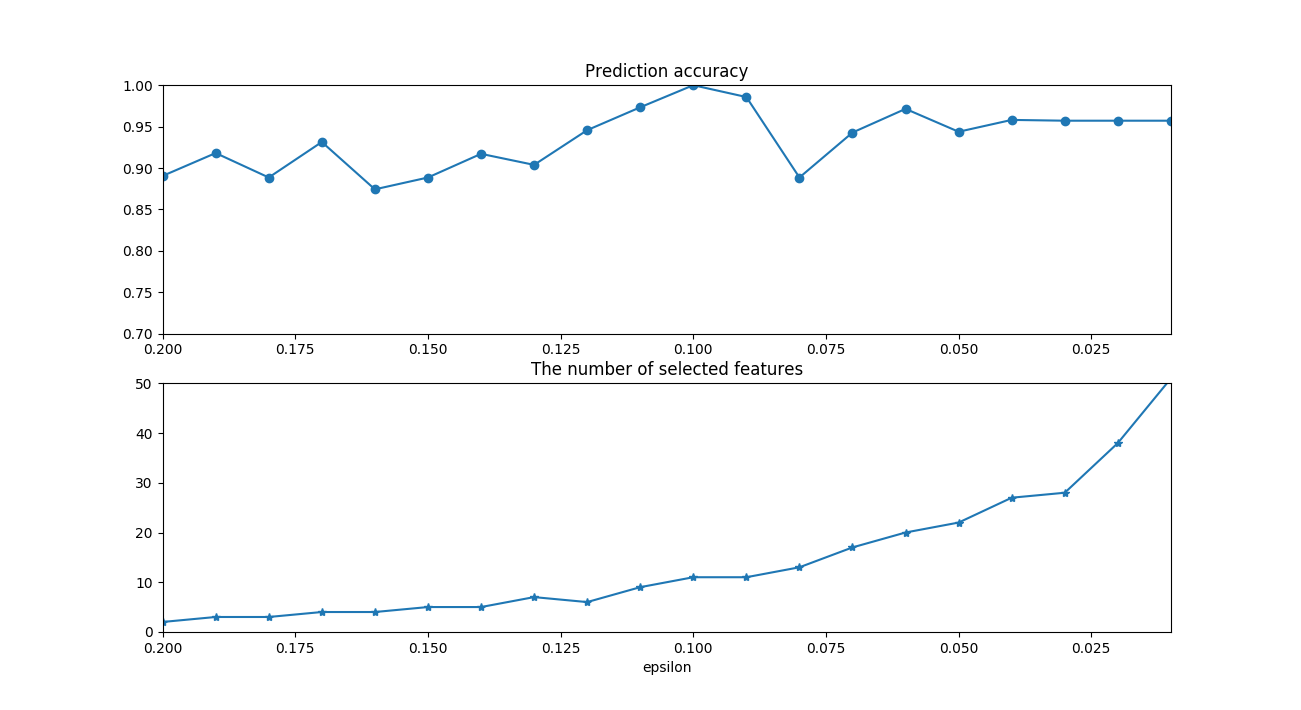
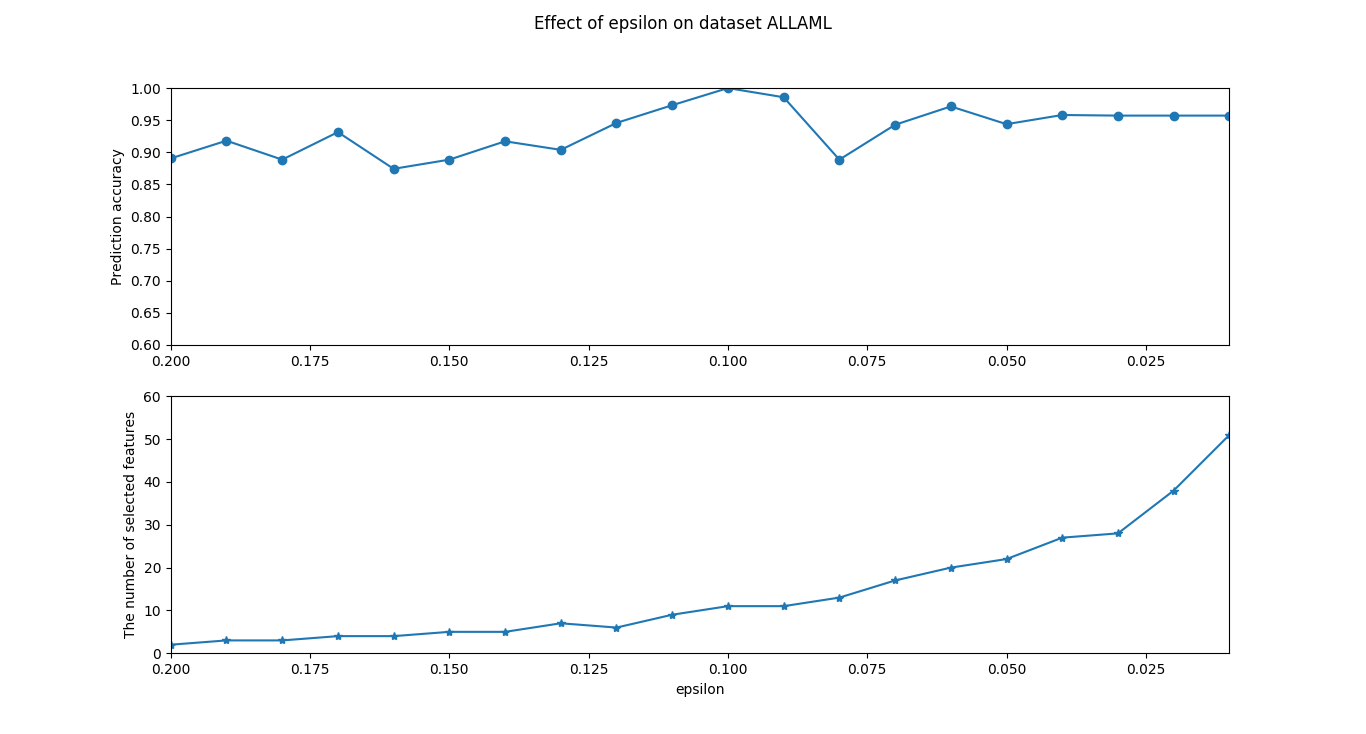
update effect of epsilon on ALLAML, colon and Prostate_GE

diff --git a/datas/gene/all_result/draw_epsilon.py b/datas/gene/all_result/draw_epsilon.py
@@ -14,14 +14,19 @@ def read_output_epsilon(fname):
                 res_cls[epsilon] = float(line_list[-1])
             if line_list[0] == 'size' and line_list[2] == 'data':
                 res_nfs[epsilon] = int(line_list[-1][:-1])
+    res_cls.name = 'accuracy'
+    res_nfs.name = 'number'
     return res_cls.drop(0.0), res_nfs.drop(0.0)
     
 
-def draw(cls, nfs):
+def draw(cls, nfs, fname):
     fig, axes = plt.subplots(2, 1)
-    cls.plot(ax=axes[0], style='o-', ylim=(0.7, 1.0), title='Prediction accuracy')
-    nfs.plot(ax=axes[1], style='*-', ylim=(0, 50), title='The number of selected features')
-    plt.xlabel('epsilon')
+    cls.plot(ax=axes[0], style='o-', ylim=(0.6, 1.0))
+    nfs.plot(ax=axes[1], style='*-', ylim=(0, 60))
+    axes[0].set_ylabel('Prediction accuracy')
+    axes[1].set_ylabel('The number of selected features')
+    axes[1].set_xlabel('epsilon')
+    fig.suptitle('Effect of epsilon on dataset %s'%fname)
     plt.show()
     plt.close()
 
@@ -30,7 +35,12 @@ if __name__ == '__main__':
     import sys
     fname = sys.argv[1]
     cls, nfs = read_output_epsilon(fname)
-    output_fname = "opt_epsilon_on_%s"%fname.split('.')[0][:-4]
-    cls.to_csv("%s_cls.csv"%output_fname)
-    nfs.to_csv("%s_nfs.csv"%output_fname)
-    draw(cls, nfs)
+    fname = fname.split('.')[0][:-4]
+    draw(cls, nfs, fname)
+    output_fname = "opt_epsilon_on_%s"%fname
+    res = pd.concat((cls, nfs), axis=1)
+    res.index.name = 'epsilon'
+    res.to_csv("%s.csv"%output_fname)
+    #cls.to_csv("%s_cls.csv"%output_fname)
+    #nfs.to_csv("%s_nfs.csv"%output_fname)
+    print cls, nfs

diff --git a/datas/gene/all_result/draw.py b/datas/gene/all_result/draw.py
@@ -14,8 +14,12 @@ nfs = nfs.drop('dataset', axis=1)
 fig, axes = plt.subplots(2, 1)
 
 style='o- ^- x- *- .-'.split(' ')
-cls.plot(ax=axes[0], style=style, ylim=(0.4, 1.0), title='Prediction accuracy')
-nfs.plot(ax=axes[1], style=style, ylim=(0, 60), title='The number of selected features')
+cls.plot(ax=axes[0], style=style, ylim=(0.4, 1.0))
+nfs.plot(ax=axes[1], style=style, ylim=(0, 60))
+
+axes[0].set_ylabel('Prediction accuracy')
+axes[1].set_ylabel('The number of selected features')
+fig.suptitle('Result on 12 datasets')
 
 plt.xlabel("12 datasets")
 plt.show()

diff --git a/README.md b/README.md
@@ -20,18 +20,12 @@
 * [Prediction accuracy](https://github.com/zhonghuawu/design/blob/master/datas/gene/all_result/all_cls.csv) <br>
 * [The number of selected features](https://github.com/zhonghuawu/design/blob/master/datas/gene/all_result/all_nfs.csv)
 
-## parameter epsilon influence to algorithm
-#### on Prostate\_GE dataset
+## parameter epsilon effect to algorithm
+#### on [Prostate\_GE](https://github.com/zhonghuawu/design/blob/master/datas/gene/all_result/opt_epsilon_on_Prostate_GE.csv) dataset
 ![image](https://github.com/zhonghuawu/design/raw/master/datas/gene/all_result/opt_epsilon_on_Prostate_GE.png)
-* [Prediction accuracy](https://github.com/zhonghuawu/design/blob/master/datas/gene/all_result/opt_epsilon_on_Prostate_GE_cls.csv)
-* [The number of selected features](https://github.com/zhonghuawu/design/blob/master/datas/gene/all_result/opt_epsilon_on_Prostate_GE_nfs.csv)
 
-#### on ALLAML dataset
+#### on [ALLAML](https://github.com/zhonghuawu/design/blob/master/datas/gene/all_result/opt_epsilon_on_ALLAML.csv) dataset
 ![image](https://github.com/zhonghuawu/design/raw/master/datas/gene/all_result/opt_epsilon_on_ALLAML.png)
-* [Prediction accuracy](https://github.com/zhonghuawu/design/blob/master/datas/gene/all_result/opt_epsilon_on_ALLAML_cls.csv)
-* [The number of selected features](https://github.com/zhonghuawu/design/blob/master/datas/gene/all_result/opt_epsilon_on_ALLAML_nfs.csv)
 
-#### on colon dataset
+#### on [colon](https://github.com/zhonghuawu/design/blob/master/datas/gene/all_result/opt_epsilon_on_colon.csv) dataset
 ![image](https://github.com/zhonghuawu/design/raw/master/datas/gene/all_result/opt_epsilon_on_colon.png)
-* [Prediction accuracy](https://github.com/zhonghuawu/design/blob/master/datas/gene/all_result/opt_epsilon_on_colon_cls.csv)
-* [The number of selected features](https://github.com/zhonghuawu/design/blob/master/datas/gene/all_result/opt_epsilon_on_colon_nfs.csv)
